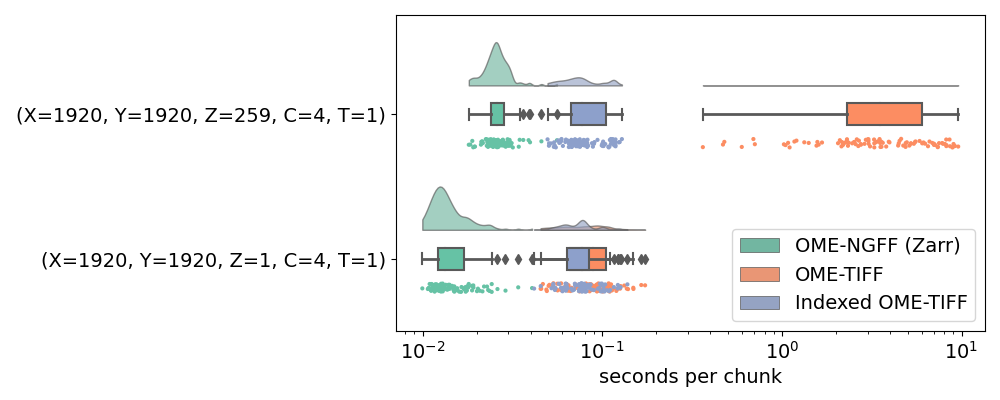
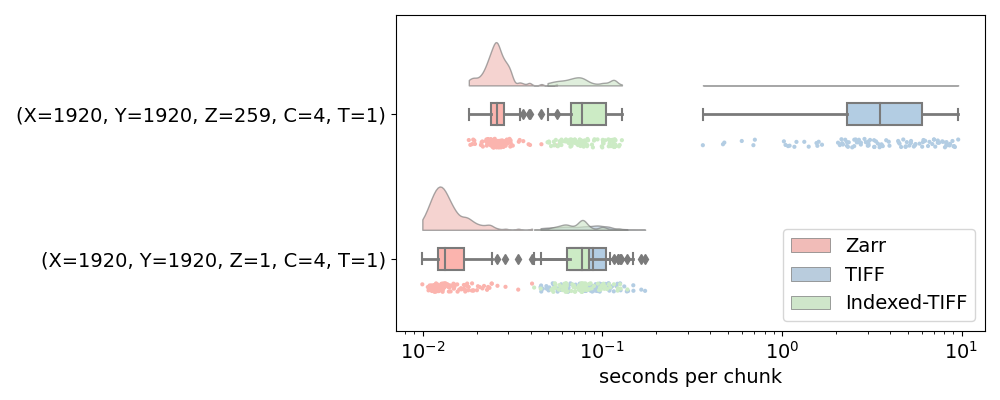
fix(figure): add boxplot lines

diff --git a/results/plot_combined.py b/results/plot_combined.py
@@ -18,11 +18,6 @@ def plot_combined(
 ):
     csv = pd.concat(map(pd.read_csv, files))
     csv.name = fmt_name(csv.name)
-    csv.type = csv.type.map({
-        'Zarr': 'OME-NGFF (Zarr)',
-        'TIFF': 'OME-TIFF',
-        'Indexed-TIFF', 'Indexed OME-TIFF',
-    })
 
     f, ax = plt.subplots(figsize=(width, height))
     ax = pt.RainCloud(
@@ -30,7 +25,7 @@ def plot_combined(
         y="seconds",
         hue="type",
         data=csv,
-        palette="Set2",
+        palette="Pastel1",
         # bw = .2,
         width_viol=0.6,
         ax=ax,
